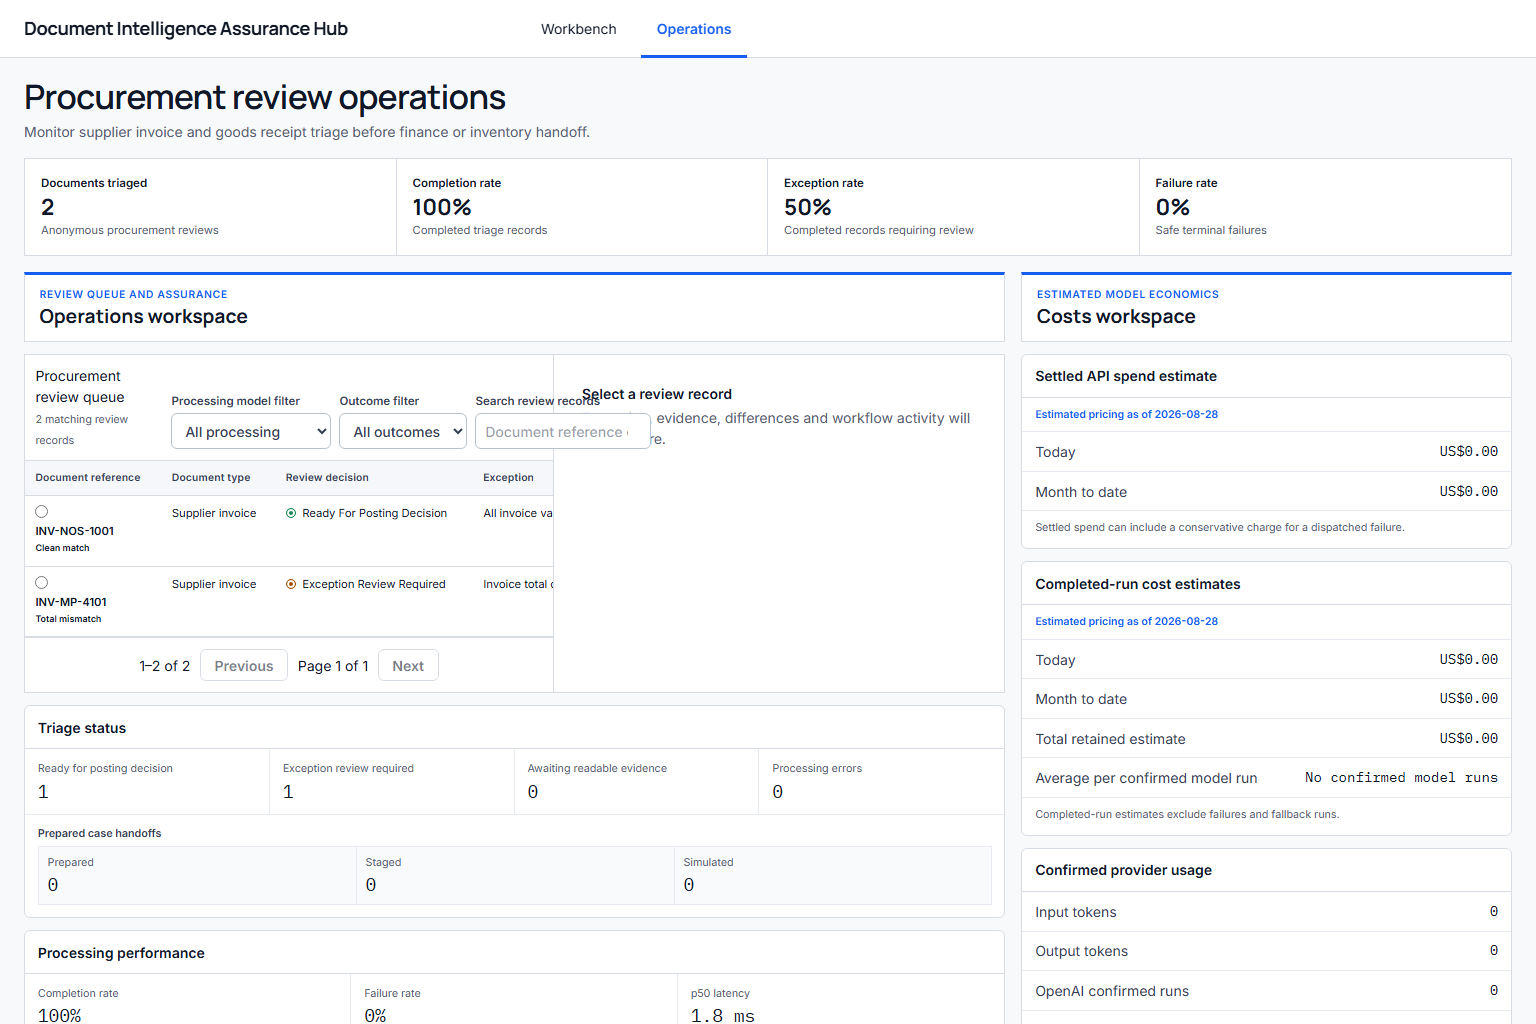
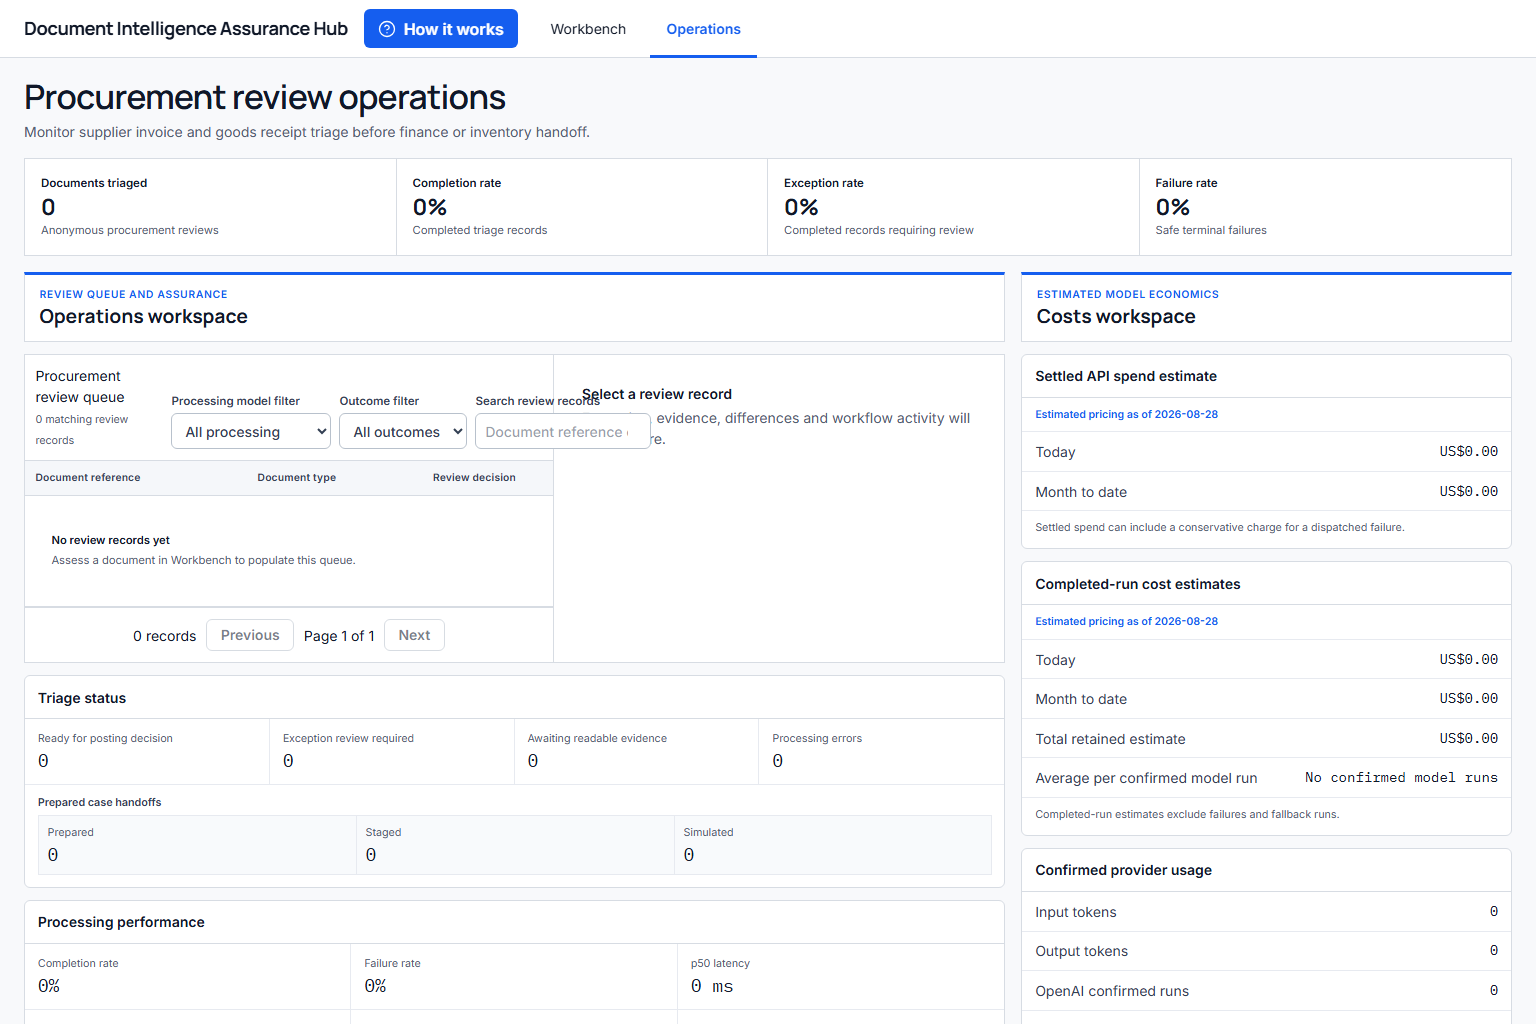
fix: align linked release records

diff --git a/tests/unit/scripts/release-documentation.test.ts b/tests/unit/scripts/release-documentation.test.ts
@@ -11,6 +11,7 @@ function readProjectFile(path: string) {
 
 const readme = readProjectFile("README.md");
 const architecture = readProjectFile("docs/architecture.md");
+const deployment = readProjectFile("docs/deployment-checklist.md");
 const evaluation = readProjectFile("docs/evaluation-report.md");
 const privacy = readProjectFile("docs/privacy-and-retention.md");
 const design = readProjectFile("DESIGN.md");
@@ -22,8 +23,10 @@ const releaseFacingDocumentation = [
   uxContract,
   readme,
   architecture,
+  deployment,
   evaluation,
   walkthrough,
+  privacy,
 ].join("\n");
 
 const pendingRoutes = [
@@ -87,6 +90,34 @@ describe("Operations release documentation", () => {
 
     expect(uxContract).toMatch(/approve_and_stage.*internal identifier/is);
     expect(uxContract).toMatch(/new events.*prepared/is);
+  });
+
+  it("keeps linked deployment and privacy records on the procurement triage journey", () => {
+    expect(deployment).toMatch(/Review incoming procurement documents/i);
+    expect(deployment).toContain("Assess for exceptions");
+    expect(deployment).toContain("Triage exception and prepare handoff");
+    for (const label of [
+      "Prepare posting handoff",
+      "Assign exception review",
+      "Draft clarification request",
+      "Request clearer evidence",
+      "Assign manual review",
+      "Replace document",
+      "Retry processing",
+      "Replace with a supported procurement document",
+    ]) {
+      expect(deployment).toContain(label);
+    }
+    expect(deployment).toMatch(
+      /Procurement review queue.*Triage status.*Prepared case handoffs/is,
+    );
+    expect(deployment).toMatch(/all documents and reference records are synthetic/is);
+    expect(deployment).toMatch(
+      /no external business system is changed/is,
+    );
+    expect(privacy).toMatch(
+      /live synthetic.*handwritten.*text-native PDF.*rendered.*local OCR.*native text.*OCR text.*merged/is,
+    );
   });
 
   it("documents queue-first Operations while keeping technical detail in the inspector", () => {
@@ -160,7 +191,9 @@ describe("Operations release documentation", () => {
 
   it("documents aggregate retention without weakening workflow boundaries", () => {
     expect(privacy).toMatch(/repository-wide anonymous aggregates/i);
-    expect(privacy).toMatch(/newest 100.*workflow.*performance.*explorer/is);
+    expect(privacy).toMatch(
+      /newest 100.*Procurement review queue.*Triage status.*Prepared case handoffs.*processing performance.*review-record/is,
+    );
     expect(privacy).toMatch(/workflow events are removed/i);
     expect(privacy).toMatch(/prepared only.*not sent/is);
     expect(privacy).toMatch(/no external connector/i);

diff --git a/tests/unit/scripts/release-artifacts.test.ts b/tests/unit/scripts/release-artifacts.test.ts
@@ -90,7 +90,10 @@ describe("Release artifact hardening", () => {
       "Sample results - no AI processing",
       "No AI processing",
       "Prepared only - not sent",
-      "Operations workspace",
+      "Procurement review operations",
+      "Procurement review queue",
+      "Triage status",
+      "Prepared case handoffs",
       "Costs workspace",
       "No confirmed model runs",
       "US$0.00",
@@ -102,7 +105,7 @@ describe("Release artifact hardening", () => {
     expect(deployment).toMatch(/two-thirds Operations.*one-third Costs/is);
     expect(deployment).toMatch(/mobile.*Operations.*before Costs/is);
     expect(deployment).toMatch(/illustrative.*SGD/is);
-    expect(deployment).toMatch(/newest-100 explorer/i);
+    expect(deployment).toMatch(/newest-100 review-record/i);
     expect(deployment).toMatch(/expiry or Delete now.*physical cleanup/is);
   });
 

diff --git a/tests/e2e/visual.spec.ts b/tests/e2e/visual.spec.ts
@@ -20,6 +20,9 @@ test("captures approved desktop and mobile evidence", async ({ page }) => {
         timeout: connectedLoadTimeout,
       });
     }
+    await expect(
+      page.locator(".app-header").getByRole("button", { name: "How it works" }),
+    ).toBeVisible({ timeout: connectedLoadTimeout });
     await page.addStyleTag({ content: "nextjs-portal { display: none !important; }" });
     await page.screenshot({ path: join(output, `${route}-1536x1024.png`), fullPage: false });
     if (route !== "workbench") continue;

diff --git a/docs/deployment-checklist.md b/docs/deployment-checklist.md
@@ -4,6 +4,8 @@ Use this checklist for each controlled rollout. The 2026-08-28 keyless productio
 
 The completed keyless rollout record is in [evaluation-report.md](evaluation-report.md). Keep the checklist below reusable for later releases.
 
+The release demonstrates `Review incoming procurement documents`: finance and warehouse teams review supplier invoices and goods receipts before a finance or inventory handoff. All documents and reference records are synthetic. The extraction, comparison, evaluator safeguards and workflow preparation are functional. ERP posting, payment, inventory, email and archive integrations are simulated and no external business system is changed.
+
 ## Before creating a deployment
 
 - [ ] Review the Task 5 verification report and confirm the worktree commit.
@@ -104,15 +106,17 @@ WHERE was_completed = true
 - [ ] Under Supplier invoices process `Clean match` as Correct, `Buyer hold` as Needs attention and `Total mismatch` as Incorrect.
 - [ ] Under Warehouse goods receipts process `Clean receipt` as Correct, `Quantity correction` as Needs attention and `Quantity mismatch` as Incorrect.
 - [ ] Confirm the native `Processing model` selector lists all four catalogue models and browsing or changing the selection creates no run.
-- [ ] Press `Process document` for each selected fixture. Confirm fallback runs say `Sample results - no AI processing` and run attribution says `No AI processing`.
-- [ ] Confirm the visible trace contains Understand document, Verify evidence and Resolve and prepare action.
-- [ ] Prepare one simulated email-copy workflow. Confirm the blank Recipient role keeps `Prepare copy` disabled then select an allowed synthetic role.
-- [ ] Confirm the preview says `Prepared only - not sent`, exposes no delivery control and adds one prepared event to the Workflow activity timeline.
-- [ ] Exercise retry and confirm a single replacement-file selection does not auto-run. Processing starts only after consent and a later `Process document` action.
-- [ ] Download a discrepancy summary and confirm its UTF-8 text opens cleanly.
+- [ ] Press `Assess for exceptions` for each selected fixture. Confirm fallback runs say `Sample results - no AI processing` and run attribution says `No AI processing`.
+- [ ] Confirm the visible trace contains `Understand document`, `Verify evidence` and `Triage exception and prepare handoff`.
+- [ ] Confirm clear evidence exposes `Prepare posting handoff`. Confirm review outcomes expose `Assign exception review` and `Draft clarification request`.
+- [ ] Confirm incomplete evidence exposes `Request clearer evidence`, `Assign manual review` and `Replace document`. Confirm failed processing exposes `Retry processing`.
+- [ ] Confirm irrelevant or uncertain custom documents expose only `Replace with a supported procurement document`.
+- [ ] Prepare one simulated clarification request. Confirm the blank Recipient role keeps `Prepare request` disabled then select an allowed synthetic role.
+- [ ] Confirm the preview says `Prepared only - not sent`, exposes no delivery control and adds one prepared event to `Prepared case handoffs`.
+- [ ] Exercise retry and confirm a single replacement-file selection does not auto-run. Processing starts only after consent and a later `Assess for exceptions` action.
 - [ ] Compare two distinct runs with Run A and Run B.
 - [ ] Confirm no external connector exists for email, ERP, ticketing, payment, inventory or access control. Every workflow event is simulated preparation only.
-- [ ] Open the `Operations workspace` and confirm workflow status, workflow activity, processing performance and the newest-100 explorer scope.
+- [ ] Open `Procurement review operations` and confirm the `Procurement review queue` appears before `Triage status`, `Prepared case handoffs`, processing performance and the newest-100 review-record scope.
 - [ ] Confirm Reference quality reports exactly 10 provider-neutral observations: five Supplier invoices and five Warehouse goods receipts.
 - [ ] Confirm the `Costs workspace` shows settled and completed estimates as `US$0.00` in keyless mode and confirmed usage says `No confirmed model runs`.
 - [ ] Confirm the Illustrative resource scenario uses SGD inputs, states `US$1 = S$1.35` and labels every result illustrative.

diff --git a/docs/privacy-and-retention.md b/docs/privacy-and-retention.md
@@ -24,7 +24,7 @@ Logical access denial is immediate. Physical cleanup can lag when Blob is unavai
 
 ## Aggregate retention boundary
 
-Repository-wide anonymous aggregates survive detailed-data tombstoning so Operations can retain total, completion, review and failure counts without restoring document access. Repository-wide lifecycle metrics inspect only currently active detail and the cleanup backlog. The newest 100 public run summaries supply workflow status, workflow activity, processing performance and explorer rows while those details remain active.
+Repository-wide anonymous aggregates survive detailed-data tombstoning so Operations can retain total, completion, review and failure counts without restoring document access. Repository-wide lifecycle metrics inspect only currently active detail and the cleanup backlog. The newest 100 public run summaries supply the Procurement review queue, Triage status, Prepared case handoffs, processing performance and review-record rows while those details remain active.
 
 At expiry or Delete now traces, results, document locators and workflow events are removed from active access. Repository-wide aggregate projections do not expose filenames, evidence, field values, event IDs, run IDs, recipient roles, deletion capabilities, anonymous bucket values or reservation identifiers.
 
@@ -46,7 +46,7 @@ The server-owned four-model catalogue contains GPT-5.6 Luna, GPT-5.6 Terra, Clau
 
 No external connector exists in this application. A simulated workflow event or prepared email copy is not evidence that an email, ERP, ticketing, payment, inventory or access-control action occurred.
 
-Live evidence grounding runs inside the application. Text-native PDF text is extracted locally while PNG, JPEG and scanned PDF pages use local OCR with bundled English language data. Raw document bytes and full extracted page text are not sent to a separate OCR service. Full page text is held only for the active workflow and is not persisted or exposed. Public traces keep only the bounded evidence snippet returned for each requested field.
+Live synthetic processing with handwritten fixtures uses explicit text-and-visual grounding inside the application. Every validated text-native PDF page is rendered for bounded local OCR then native text and OCR text are merged for page-scoped evidence checks. PNG, JPEG and scanned PDF pages use local OCR with bundled English language data. Raw document bytes and full extracted page text are not sent to a separate OCR service. Full page text is held only for the active workflow and is not persisted or exposed. Public traces keep only the bounded evidence snippet returned for each requested field.
 
 ## Enterprise gaps
 
